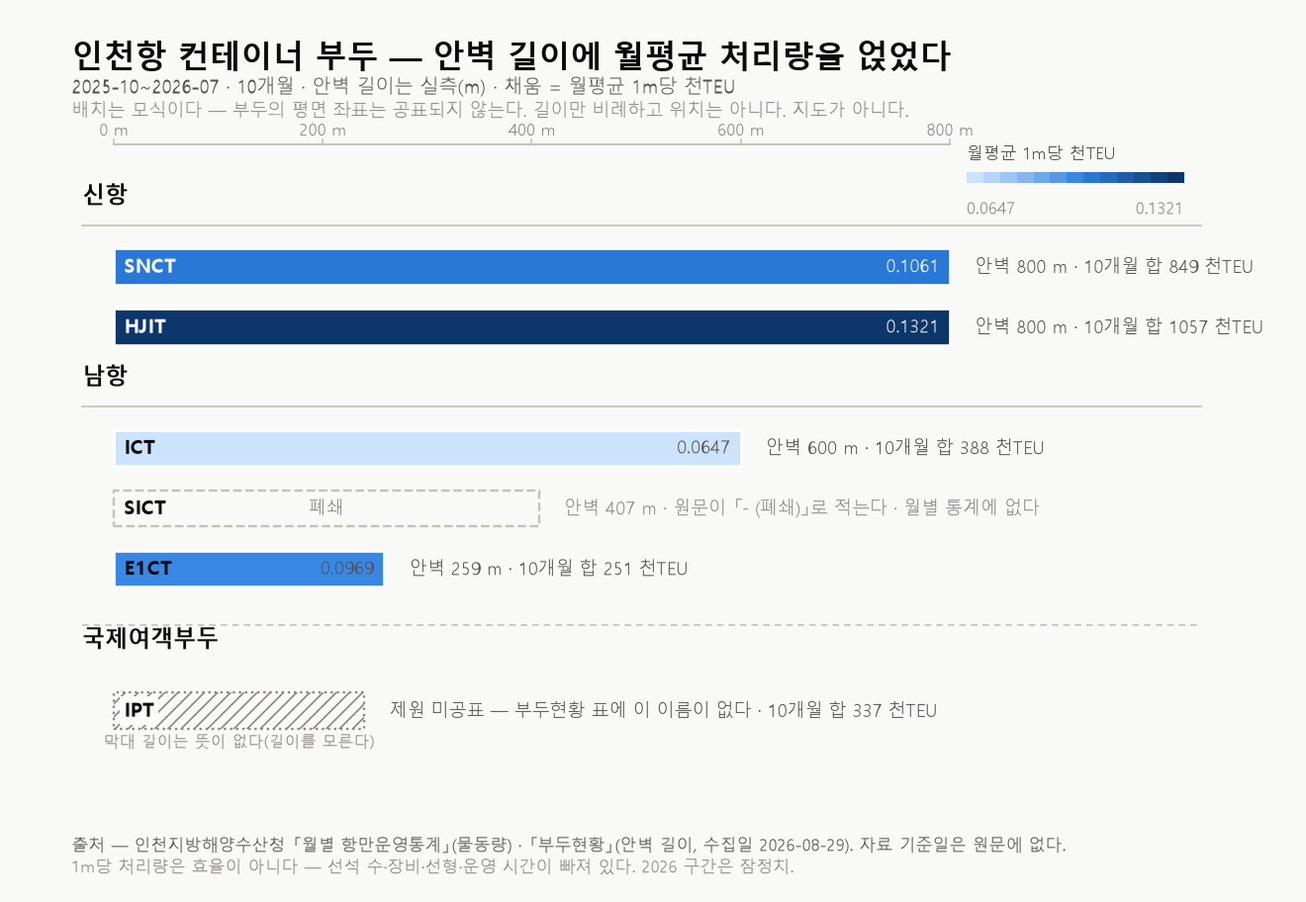
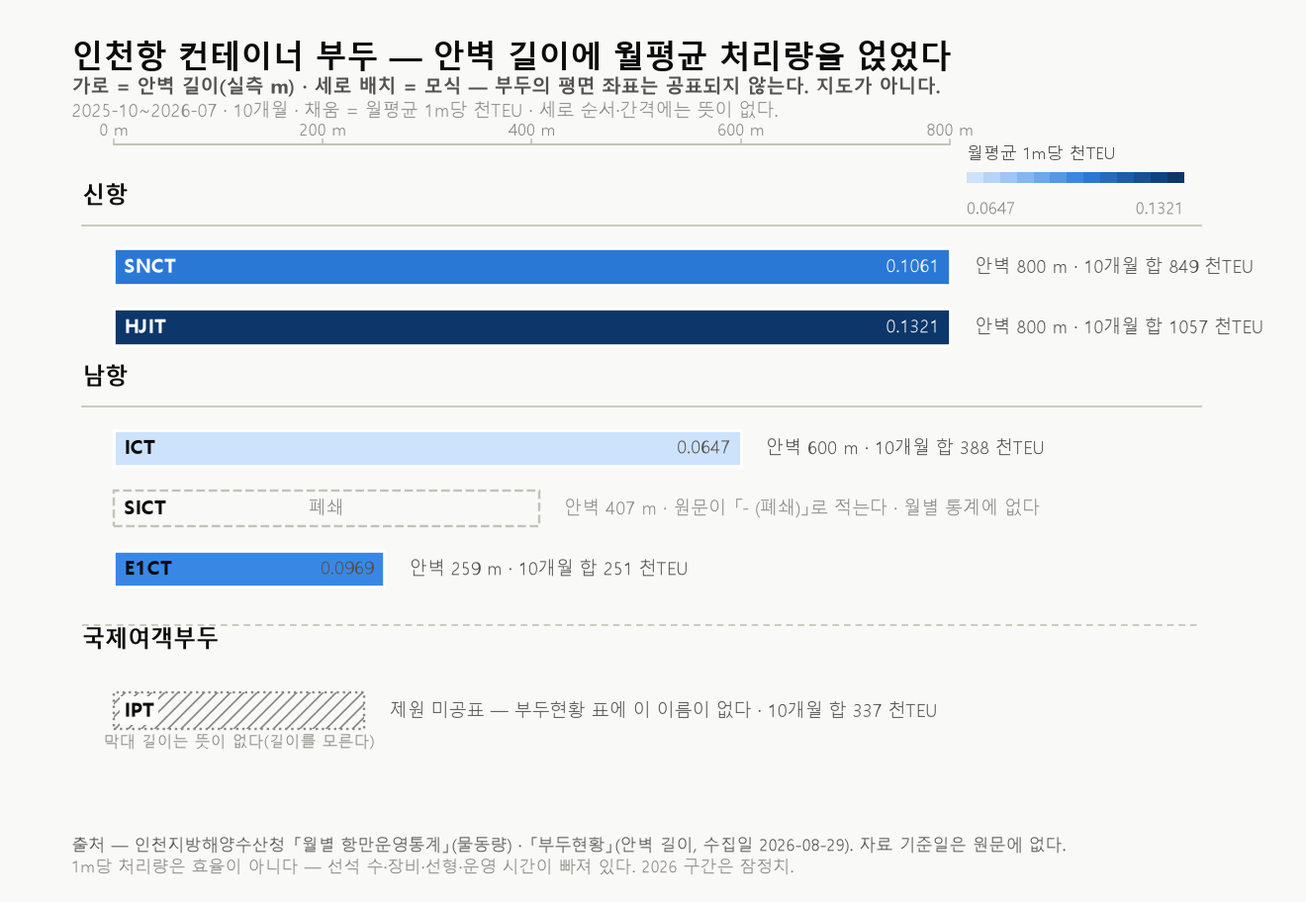
fix(#11): 창이 왜 10개월인가 · T3 의 사전 난이도 · 제목의 범위
발행 전 세 자리. **선커밋 `docs/11_주제검증.md` 는 한 글자도 안 고쳤다**
(blob `e8789fb0` 그대로) · 판정 T1·T2 PASS · T3·T4 FAIL 불변.

1. **창의 출처.** 「원천이 10개월」이라고 적으려다 확인 명령을 못 붙여 재 봤다 —
   게시판 목록은 23쪽이고 가장 이른 항만운영통계 글은 2006-09 분이다.
   `list_posts()` 가 `pageindex` 를 안 붙여 **첫 쪽 10건만** 읽는다.
   **창을 고른 것이 아니라 고르지 않은 것이 창이 됐다.**
   재현 = `probe_15_board_depth.py`(쪽수·제목만 · 첨부를 안 연다).
   판정 구간은 안 넓혔다 — 값을 본 뒤 넓히면 사후조정이다(§3-7).

2. **T3 의 사전 난이도.** 판정 코드가 `2·(1/2)^5 = 0.0625` 와 10개월 기대치
   `0.625개월` 을 계산하고 인수시험이 고정한다. 합계는 다섯의 합이라
   여섯째 동전으로 안 센다 — 다섯만 봐도 동행은 1개월이고 그것도 코드가 센다.
   기준 6개월은 기대치의 약 열 배였고 관측 1개월은 기대치와 사실상 같다.
   **가정은 데이터로 검증하지 않았다**(이 창의 부호 분포는 반반이 아니다).
   FAIL 이 말하는 폭을 좁혔지 FAIL 을 무르지 않았다.

3. **제목의 범위.** 제목은 뒀다. 잰 것이 **전년대비 부호 하나**라는 것을
   리드와 §3-1 에 붙였다. 상관은 안 쟀고 §4.2 후속으로만 적는다.

확인 둘. **모집단이 실제로 지표마다 다르다** → 판정표에 모집단 열
(T1·T2 부두군 3 / T3 합계 1+터미널 5 / T4 터미널 4).
**도해의 모식 고지가 가장 옅은 글자였다** → 축에 붙여 제목 밑 굵은 줄로 올렸다.

대장 3행 추가(0.0625 · 0.625개월 · 게시판 깊이) · `10개월` 행 비고에
「이 10개월이 전부라는 뜻이 아니다」. 린터 FAIL 0 · WARN 0.

Claude-Session: https://claude.ai/code/session_01R1FFVjPPqEkxDWzcQ8VZJk

Changed region(s): [[0.0621, 0.0614, 0.7144, 0.1535]]

diff --git a/analysis/probe/probe_15_board_depth.py b/analysis/probe/probe_15_board_depth.py
@@ -1,0 +1,134 @@
+# -*- coding: utf-8 -*-
+"""프로브 — 「월별 항만운영통계」 게시판은 **어디까지 있는가.**
+
+**질문.** #11 의 창이 10개월인 것은 **원천이 10개월이어서인가, 우리가 10개월만 읽어서인가.**
+
+**답 (2026-09-11 실측).** **후자다.** 게시판 목록은 **23쪽**이고 마지막 쪽의 가장 이른 글은
+**2006년 9월**분이다. `collect_terminal_monthly.py` 의 `list_posts()` 는 `pageindex` 를 안 붙여
+**첫 쪽 10건만** 읽는다 — 그래서 CSV 가 2025-10~2026-07 열 달이 됐다.
+
+**이것이 왜 프로브인가.** 값을 하나도 안 연다 — **쪽수와 글 제목만** 본다.
+터미널별 수치는 손대지 않으므로 #11 의 선커밋 구간(2025-10~2026-07)에 영향이 없다.
+창을 넓히려면 **편을 새로 열고 선커밋부터** 해야 한다(지침 §5).
+
+**왜 남기나.** #11 이 「왜 10개월인가」를 결론 자리에서 답하는데, 그 답이 주장이 아니라
+**확인 명령을 가진 관측**이어야 한다(지침 §8-3).
+
+    python analysis/probe/probe_15_board_depth.py            # 실측
+    python analysis/probe/probe_15_board_depth.py --selftest # 파서 인수시험(망 안 탄다)
+
+닿지 않는 곳
+------------
+· **옛 글의 첨부에 터미널 표가 있는지는 안 본다.** 첨부를 열지 않는다 — 그건 값이다.
+  **「글이 있다」와 「그 축이 있다」는 다르다**(사고 26). 창을 넓히는 편이 그것부터 확인한다.
+· **제목 규칙은 수집기의 것을 그대로 쓴다.** 다른 제목으로 올라온 같은 통계가 있으면 안 잡힌다 —
+  실제로 마지막 쪽에 「인천항 선박입항 및 물동량 처리 현황」이라는 다른 제목의 2006년 글이 있다.
+· 게시판은 살아 있다. **이 수는 측정일의 관측이다.**
+"""
+from __future__ import annotations
+import argparse
+import html as htmllib
+import re
+import sys
+import urllib.request
+
+try:
+    sys.stdout.reconfigure(encoding="utf-8", errors="replace")
+    sys.stderr.reconfigure(encoding="utf-8", errors="replace")
+except Exception:
+    pass
+
+LIST_URL = "https://incheon.mof.go.kr/ko/board.do?menuIdx=1700"
+UA = (
+    "Mozilla/5.0 (Windows NT 10.0; Win64; x64) AppleWebKit/537.36 "
+    "(KHTML, like Gecko) Chrome/140.0.0.0 Safari/537.36"
+)
+
+# 게시판 쪽 이동은 `fnPageMove(n)` 이 `#pageindex` 에 값을 넣고 폼을 낸다
+# (`/ko/office/common/resources/js/wk_common.js`). GET 으로도 같은 목록이 온다.
+END_RE = re.compile(r'fnPageMove\((\d+)\)[^>]*class="btn_end"')
+LINK_RE = re.compile(
+    r'<a[^>]+href="(board\.do\?[^"]*bbsIdx=\d+[^"]*)"[^>]*>(.*?)</a>', re.S
+)
+# **수집기와 같은 규칙을 쓴다** — 다른 규칙을 쓰면 다른 것을 세게 된다(사고 31).
+YM_RE = re.compile(r"(\d{4})년\s*(\d{1,2})월")
+
+
+def get(url: str) -> str:
+    req = urllib.request.Request(url, headers={"User-Agent": UA, "Referer": LIST_URL})
+    return urllib.request.urlopen(req, timeout=30).read().decode("utf-8", "replace")
+
+
+def last_page(page_html: str) -> int | None:
+    """목록 쪽수 — 「끝 페이지로」 단추가 드는 수."""
+    m = END_RE.search(page_html)
+    return int(m.group(1)) if m else None
+
+
+def months_on(page_html: str) -> list[str]:
+    """그 쪽의 「항만운영통계」 글에서 대상연월만. **수집기와 같은 규칙.**"""
+    out = []
+    for m in LINK_RE.finditer(page_html):
+        title = htmllib.unescape(re.sub(r"<[^>]+>", "", m.group(2))).strip()
+        ym = YM_RE.search(title)
+        if "항만운영통계" in title and ym:
+            out.append("%s-%02d" % (ym.group(1), int(ym.group(2))))
+    return out
+
+
+def probe() -> int:
+    first = get(LIST_URL)
+    pages = last_page(first)
+    head = months_on(first)
+    print("== 「월별 항만운영통계」 게시판 깊이 ==")
+    print("  목록 1쪽  · 항만운영통계 %d건 · %s ~ %s" % (len(head), head[-1], head[0]))
+    if not pages:
+        print("  **쪽수를 못 읽었다.** 목록 표시가 바뀌었다 — 단정하지 않는다.")
+        return 1
+    print("  목록 쪽수 · %d쪽" % pages)
+    tail = months_on(get(LIST_URL + "&pageindex=%d" % pages))
+    print("  목록 %d쪽 · 항만운영통계 %d건 · 가장 이른 달 %s" % (pages, len(tail), min(tail)))
+    print()
+    print("  **수집기는 첫 쪽만 읽는다** — `collect_terminal_monthly.py` `list_posts()` 가")
+    print("  `pageindex` 를 안 붙인다. `analysis/terminal_monthly.csv` 의 %d개월이 그 결과다."
+          % len(head))
+    print("  **첨부에 터미널 표가 있는지는 이 프로브가 안 본다.** 글이 있는 것과 축이 있는 것은 다르다.")
+    return 0
+
+
+def selftest() -> int:
+    ok = True
+
+    def chk(label, got, want):
+        nonlocal ok
+        good = got == want
+        ok = ok and good
+        print("  %s %-46s %s" % ("OK  " if good else "FAIL", label,
+                                 "" if good else "-> %r (기대 %r)" % (got, want)))
+
+    print("── 인수시험: 쪽수 읽기 ──")
+    end = ('<a href="#" title="끝 페이지로" onclick="fnPageMove(23);return false;" '
+           'class="btn_end"><em class="IR">끝 페이지로</em></a>')
+    chk("끝 페이지 수를 읽는다", last_page(end), 23)
+    chk("없으면 None — 단정하지 않는다", last_page("<div></div>"), None)
+
+    print("── 인수시험: 제목 규칙 ──")
+    frag = (
+        '<a href="board.do?menuIdx=1700&bbsIdx=1">2026년 7월 인천항 항만운영통계</a>'
+        '<a href="board.do?menuIdx=1700&bbsIdx=2">2006년 9월 항만운영통계</a>'
+        '<a href="board.do?menuIdx=1700&bbsIdx=3">인천항 선박입항 및 물동량 처리 현황 (2006년 8월)</a>'
+        '<a href="board.do?menuIdx=1700&bbsIdx=4">항만운영통계 안내</a>'
+    )
+    got = months_on(frag)
+    chk("항만운영통계 + 연월만 잡는다", got, ["2026-07", "2006-09"])
+    chk("다른 제목은 안 잡는다 — 한계를 그대로 둔다", "2006-08" in got, False)
+
+    print("\n통과" if ok else "\n실패")
+    return 0 if ok else 1
+
+
+if __name__ == "__main__":
+    ap = argparse.ArgumentParser(description="게시판 깊이 프로브 — 값은 안 연다")
+    ap.add_argument("--selftest", action="store_true")
+    a = ap.parse_args()
+    sys.exit(selftest() if a.selftest else probe())

diff --git a/analysis/judge_11_terminal.py b/analysis/judge_11_terminal.py
@@ -179,7 +179,7 @@ def judge():
                  "미성립": t2_bad, "판정": "PASS" if not t2_bad else "FAIL"}
 
     # T3 — 합계 부호와 터미널 다섯 부호가 모두 같은 달이 6개월 이상
-    signs, agree = {}, []
+    signs, agree, agree5 = {}, [], []
     for m in months:
         row = {"합계": sign(yoy_total.get(m))}
         for t in sorted(term[m]):
@@ -188,8 +188,19 @@ def judge():
         vals = list(row.values())
         if None not in vals and len(set(vals)) == 1:
             agree.append(m)
+        five = [v for k, v in row.items() if k != "합계"]
+        if None not in five and len(set(five)) == 1:
+            agree5.append(m)
+    # **기준의 사전 난이도** — 판정에 안 쓴다. T2 의 「선언값」과 같은 자리의 자기비판이다.
+    # 부호가 서로 무관하고 +/− 가 반반이라면 **터미널 다섯이 모두 같을 확률**은 2·(1/2)^5.
+    # **합계는 동전으로 안 센다** — 다섯의 합이라 독립이 아니다. 여섯 조건 ≈ 다섯 조건이고,
+    # 이 창에서는 `동행`(여섯)과 `다섯만 동행`이 실제로 같은 수다.
+    n_terms = max(len(signs[m]) - 1 for m in months) if months else 0
+    p_null = 2 * (0.5 ** n_terms) if n_terms else 0.0
     out["T3"] = {"동행": len(agree), "검사": len(months), "기준": T3_MIN_MONTHS,
                  "동행한 달": agree,
+                 "다섯만 동행": len(agree5),
+                 "귀무확률": p_null, "귀무기대": p_null * len(months),
                  "판정": "PASS" if len(agree) >= T3_MIN_MONTHS else "FAIL"}
     out["signs"] = signs
 
@@ -260,6 +271,15 @@ def report():
         else:
             extra = v.get("사유", "")
         print("  %-4s %-10s %s" % (k, v["판정"], extra))
+    v3 = r["T3"]
+    print()
+    print("── T3 의 사전 난이도 (판정에 안 쓴다) ──")
+    print("  부호가 무관하고 반반이면 다섯이 모두 같을 확률 %.4f (= 2·(1/2)^5)" % v3["귀무확률"])
+    print("  %d개월 기대치 %.2f개월 · 관측 %d개월 · 기준은 %d개월 이상이었다"
+          % (v3["검사"], v3["귀무기대"], v3["동행"], v3["기준"]))
+    print("  다섯만 동행 %d개월 — 합계를 빼도 같은 수다(합계는 다섯의 합이라 동전이 아니다)"
+          % v3["다섯만 동행"])
+    print("  **가정은 이 데이터로 검증하지 않았다.** 기준이 얼마나 빡빡했는지의 자[尺]일 뿐이다")
     n_fail = sum(1 for k in ("T1", "T2", "T3", "T4") if r[k]["판정"] == "FAIL")
     print()
     print("PASS %d · FAIL %d · 판정 불가 %d"
@@ -308,6 +328,14 @@ def selftest():
     chk("T1 검사 분모가 0 이 아니다", r["T1"]["검사"] > 0, True)
     chk("T2 하한이 선언값 50.0", SHARE_FLOOR, 50.0)
     chk("T3 기준이 6개월", r["T3"]["기준"], 6)
+
+    print("── 인수시험: T3 사전 난이도는 판정을 안 바꾼다 ──")
+    chk("귀무확률 = 2·(1/2)^5", round(r["T3"]["귀무확률"], 6), 0.0625)
+    chk("10개월 기대치", round(r["T3"]["귀무기대"], 4), 0.625)
+    chk("기준은 기대치보다 크다 — 빡빡했다", r["T3"]["기준"] > r["T3"]["귀무기대"], True)
+    chk("합계를 빼도 같은 수다", r["T3"]["다섯만 동행"], r["T3"]["동행"])
+    chk("판정은 관측과 기준만으로 난다",
+        r["T3"]["판정"], "PASS" if r["T3"]["동행"] >= r["T3"]["기준"] else "FAIL")
     chk("판정 넷이 다 났다",
         sorted(k for k in ("T1", "T2", "T3", "T4") if "판정" in r[k]), ["T1", "T2", "T3", "T4"])
 

diff --git a/analysis/chart_11_terminal_plan.py b/analysis/chart_11_terminal_plan.py
@@ -104,11 +104,13 @@ def build(path=OUT):
     fig = plt.figure(figsize=(11, 7.6), dpi=120, facecolor=PLANE)
     fig.text(0.055, 0.955, "인천항 컨테이너 부두 — 안벽 길이에 월평균 처리량을 얹었다",
              fontsize=19, fontweight="bold", color=INK, va="top")
+    # **실측과 모식을 축에 붙인다.** 캡션에만 적으면 눈이 먼저 지도로 읽는다
+    # (2026-09-11 운영자 지적). 그래서 이 줄은 **가장 옅은 글자가 아니어야 한다.**
     fig.text(0.055, 0.915,
-             "2025-10~2026-07 · 10개월 · 안벽 길이는 실측(m) · 채움 = 월평균 1m당 천TEU",
-             fontsize=11.5, color=INK2, va="top")
+             "가로 = 안벽 길이(실측 m) · 세로 배치 = 모식 — 부두의 평면 좌표는 공표되지 않는다. 지도가 아니다.",
+             fontsize=11.5, fontweight="bold", color=INK2, va="top")
     fig.text(0.055, 0.888,
-             "**배치는 모식이다** — 부두의 평면 좌표는 공표되지 않는다. 길이만 비례하고 위치는 아니다. 지도가 아니다.".replace("**", ""),
+             "2025-10~2026-07 · 10개월 · 채움 = 월평균 1m당 천TEU · 세로 순서·간격에는 뜻이 없다.",
              fontsize=11, color=MUTED, va="top")
 
     ax = fig.add_axes([0.055, 0.135, 0.89, 0.72], facecolor=SURFACE)

diff --git a/docs/FACTS.md b/docs/FACTS.md
@@ -60,7 +60,7 @@
 | 2.064배 | **2026-07 단월** · 인천항 수입÷수출 · USD | 관측 | #08 | 잠정치 |
 | 3,830,215,205 USD | 2026-07 단월 · 인천항 수출 신고액 | 관측 | #08 원시 `porttrade_202412_202607.csv` | 잠정치 |
 | 7,906,486,316 USD | 2026-07 단월 · 인천항 수입 신고액 | 관측 | #08 원시 동일 | 잠정치 |
-| 10개월 | 2025-10 ~ 2026-07 대상월 · 인천지방해양수산청 「월별 항만운영통계」가 **익월 23~30일**에 게시된 연속 개월 수 | 관측 | 게시판 게시일 실측 2026-08-28 (`incheon.mof.go.kr` `menuIdx=1700`) | **데이터 값이 아니라 소스의 공표 리듬**이다. 기관 선언이 아니라 우리가 잰 값 |
+| 10개월 | 2025-10 ~ 2026-07 대상월 · 인천지방해양수산청 「월별 항만운영통계」가 **익월 23~30일**에 게시된 연속 개월 수 | 관측 | 게시판 게시일 실측 2026-08-28 (`incheon.mof.go.kr` `menuIdx=1700`) | **데이터 값이 아니라 소스의 공표 리듬**이다. 기관 선언이 아니라 우리가 잰 값. **이 10개월이 게시판의 전부라는 뜻이 아니다** — 아래 「게시판 깊이」 행이 그것을 든다. 같은 수가 두 뜻으로 읽히는 자리다(사고 22) |
 | 2023-04 | 인천항 **연안(`ocCt=2`) 공컨테이너**가 마지막으로 0이 아니었던 달 · TEU·박스 수 기준 | 관측 | `analysis/probe/probe_10_coastal_zero.py` — 방향별 CSV 2022~2026 읽기 전용 훑기 | **2024-01 이후 전 구간 0.** 값이 있던 구간은 전부 국적선·10ft였다. **이 관측은 데이터를 본 뒤에 나왔으므로 선커밋 기준이 될 수 없다**(§3-7) |
 | 282 천TEU | 2026-07 단월 · 인천항 **컨테이너 공표 합계** | 관측 | 인천지방해양수산청 「월별 항만운영통계」 2026-07 표 — `analysis/terminal_monthly.csv` 계층=합계 | **공표자료가 낸 합계다.** 터미널 다섯 곳을 우리가 더하면 283이 나온다 — 어긋남은 반올림이고, 그 자리는 신항이다(78+107=185, 공표 소계 184) |
 | 184 천TEU | 2026-07 단월 · **신항 소계**(SNCT·HJIT) | 관측 | 위와 동일 · 계층=부두군 | 공표자료가 「신항 소 계」 행으로 직접 낸다 |
@@ -170,6 +170,8 @@
 | 순위 2종 | **2025-10~2026-07 · 10개월** · 안벽 1m당 처리량 순위의 종류(대응 4곳) | 검증 | `judge_11_terminal.py` T4 (#11) | 9개월이 `HJIT>SNCT>E1CT>ICT`, 1개월(2025-12)이 `HJIT>E1CT>SNCT>ICT`. 기준은 「10개월 내내 같다」였고 FAIL 이다 |
 | 50.0% | 신항 몫의 **선커밋 하한** — #11 T2 · 분모 = 공표 합계 | 관측 | 근거 = 2026-07 의 65.2%(대장) 에서 내려 잡은 **선언값**. `docs/11_주제검증.md` §3 | **기준값이지 관측값이 아니다.** 관측이 한 달뿐이라 관측 최소를 못 썼다 — 그 약점을 선커밋이 그 자리에 적었다. 이 창의 관측 최소는 63.4% |
 | 9개월 | **2025-10~2026-07 · 10개월** 중 공표 합계의 전년대비 부호가 **터미널 다섯 전부의 부호와 같지 않은** 달 | 검증 | `analysis/judge_11_terminal.py` T3 (#11) | 「1개월」 행의 여집합이다. 같은 창·같은 판정에서 나온다 |
+| 0.0625 | 터미널 **다섯의 전년대비 부호가 모두 같을 확률** — **부호가 서로 무관하고 +/− 가 반반이라는 가정** 위의 값 · #11 T3 | 관측 | `analysis/judge_11_terminal.py` — `2·(1/2)^5` 를 계산하고 인수시험이 그 값을 고정한다 | **관측된 값이 아니라 가정 위의 계산값이다.** 가정 자체는 이 데이터로 검증하지 않았다 — 이 창의 부호 분포는 반반이 아니다(E1CT 10개월 전부 +, SNCT 9개월 −). **T2 의 「선언값」과 같은 자리의 자기비판**이고, 판정에는 안 쓴다 |
+| 0.625개월 | 위 확률의 **10개월 기대치** — #11 T3 의 선커밋 기준(6개월 이상)이 요구한 값과 맞대는 자 | 관측 | 동일 — `0.0625 × 10` | **관측은 1개월이고 이 기대치와 사실상 같다.** 기준 6개월은 기대치의 약 열 배였다 — **사전에도 통과 가능성이 낮은 값**이었다. 기준은 고치지 않는다(§3-7) |
 | 8종 · 끊김 2 | **2005-01~2021-12** · `(GInOut, ocCt)` 조합 수와 **중간 결손이 있는 조합 수** | 검증 | 동일 — 재계산 (#10 W4) | 끊긴 둘은 **(3,2)·(4,2) = 환적×연안**. **W1~W3 은 연안을 빼므로 안 섞인다** |
 | 85.0% | 공컨 **수출 방향 비중의 선커밋 하한** — #09 V3 | 관측 | 근거 = 2022~2025 관측 최소 85.1%(2025). `docs/09_주제검증.md` §3 | **기준값이지 관측값이 아니다.** 대장의 `85.0배`(2022-08 월 최대)와 숫자만 같고 단위가 다르다 |
 
@@ -189,6 +191,7 @@
 |---|---|---|---|---|
 | 신항 · 남항 · 국제여객부두 | 인천항 컨테이너 **부두군 구분** | 관측 | 원문 실측 `analysis/probe/probe_11_berth_group.py` (2026-07 첨부 SHA-256 대조 후 열람) | **우리가 만든 분류가 아니다.** 공표자료 표가 「신항 소 계」·「남항 소 계」 행을 직접 든다. 확인 전에는 코드에만 있고 출처가 안 적혀 있었다 |
 | SICT | 남항 컨테이너 부두 중 원문이 **「폐쇄」**로 적은 부두 · 안벽 407 m · 수심 11.0 m | 관측 | 인천지방해양수산청 남항 부두현황(menuIdx=1773) · 수집일 2026-08-29 | 운영 중 안벽 합계에서 뺐다. **폐쇄 사유는 이 소스에 없고 쓰지 않는다** |
+| 게시판 깊이 | 「월별 항만운영통계」 게시판 목록은 **23쪽**이고 가장 이른 항만운영통계 글은 **2006년 9월**분이다 · 측정 2026-09-11 | 관측 | `analysis/probe/probe_15_board_depth.py` (쪽수와 글 제목만 본다 — 첨부를 안 연다) | **#11 의 창이 10개월인 것은 원천이 10개월이어서가 아니다.** `collect_terminal_monthly.py` 의 `list_posts()` 가 `pageindex` 를 안 붙여 **목록 첫 쪽 10건만** 읽는다. **옛 글의 첨부에 터미널 표가 있는지는 [미확인]** — 글이 있는 것과 축이 있는 것은 다르다(사고 26). 창을 넓히려면 편을 새로 열고 선커밋부터 한다 |
 
 ## 등재 규칙
 

diff --git a/docs/11_판정결과.md b/docs/11_판정결과.md
@@ -19,14 +19,18 @@
 
 ## 1. 판정표
 
-| 기준 | 내용 | 창 | 결과 | 판정 |
-|---|---|---|---|---|
-| **T1** 몫 순위 지속 | 신항 > 남항 > 국제여객부두 | 10개월 | **10/10 성립** | **PASS** |
-| **T2** 신항 몫 하한 | 매달 ≥ 50.0% | 10개월 | **10/10 성립** (63.4~68.8%) | **PASS** |
-| **T3** 증감 동행 | 여섯 부호가 모두 같은 달 ≥ 6개월 | 10개월 | **1개월**(2025-11) | **FAIL** |
-| **T4** 안벽 생산성 순위 지속 | 대응 터미널의 순위가 10개월 내내 같다 | 10개월 · 4곳 | **순위 2종**(9개월 + 1개월) | **FAIL** |
+| 기준 | 내용 | 모집단 | 창 | 결과 | 판정 |
+|---|---|---|---|---|---|
+| **T1** 몫 순위 지속 | 신항 > 남항 > 국제여객부두 | 부두군 **3** | 10개월 | **10/10 성립** | **PASS** |
+| **T2** 신항 몫 하한 | 매달 ≥ 50.0% | 부두군 **1**(분모 = 공표 합계) | 10개월 | **10/10 성립** (63.4~68.8%) | **PASS** |
+| **T3** 증감 동행 | 여섯 부호가 모두 같은 달 ≥ 6개월 | 공표 합계 **1** + 터미널 **5** | 10개월 | **1개월**(2025-11) | **FAIL** |
+| **T4** 안벽 생산성 순위 지속 | 대응 터미널의 순위가 10개월 내내 같다 | 터미널 **4**(이름 대응분) | 10개월 | **순위 2종**(9개월 + 1개월) | **FAIL** |
 
 **PASS 2 · FAIL 2 · 판정 불가 0.**
+
+**모집단이 기준마다 다르다 — 선커밋이 그렇게 정했다.** T4 만 넷인 것은 부두현황 표에 IPT 의
+제원이 없어서이고, 선커밋 게이트 3·4 가 「대응 안 되는 이름은 판정 불가로 따로 센다」를 미리 적었다.
+**다섯 곳 전부가 들어가는 기준은 T3 하나다.** 「다섯」을 전 지표의 모집단으로 읽지 않는다.
 
 ---
 
@@ -108,6 +112,25 @@
 
 **인과를 쓰지 않는다.** 왜 그런지는 이 데이터가 답하지 않는다.
 
+### 4-1. 이 기준의 사전 난이도 — **판정에 안 쓴다**
+
+**T2 에 「느슨한 기준의 PASS」를 적었으면 T3 에도 같은 잣대를 댄다.**
+
+터미널 다섯의 부호가 서로 무관하고 양·음이 반반이라면, 다섯이 한 방향으로 모일 확률은
+`2 × (1/2)^5 = 0.0625` 이고 **10개월 기대치는 0.625개월**이다.
+**기준이 요구한 6개월 이상은 그 기대치의 약 열 배**이고, **관측 1개월은 기대치와 사실상 같다.**
+→ **T3 은 사전에도 통과 가능성이 낮은 기준이었다.**
+
+- **합계는 여섯째 동전이 아니다.** 다섯의 합이므로 독립이 아니고, 그래서 다섯으로 센다.
+  실제로 **합계를 빼고 다섯만 봐도 동행은 1개월**이다(판정 코드 `다섯만 동행`).
+- **가정은 이 데이터로 검증하지 않았다.** 이 창의 부호 분포는 반반이 아니다 —
+  E1CT 10/10 양 · SNCT 9/10 음. **그러므로 이 값은 데이터의 서술이 아니라 기준의 자[尺]다.**
+- **기준은 고치지 않는다**(§3-7). 사전 난이도를 알았다고 사후에 선을 옮기면 그것이 이탈이다.
+  **이 절은 FAIL 을 무르는 것이 아니라 FAIL 이 말하는 폭을 좁힌다** —
+  말할 수 있는 것은 「기대를 크게 웃도는 동행을 요구했고 그 수준이 아니었다」까지다.
+
+계산과 값 고정 = `analysis/judge_11_terminal.py` 와 그 인수시험 · 대장 등재 = `docs/FACTS.md`.
+
 ---
 
 ## 5. T4 — 안벽 1m당 천TEU · **FAIL**
@@ -154,8 +177,27 @@ E1CT 는 안벽이 259 m 로 가장 짧고, 짧은 분모는 같은 물동량에
   **이 편이 처음엔 이것을 「두 표의 어긋남」으로 적었다** — §2 의 정정 그대로, 대장에 이미 있던 사실이다.
 - **IPT 는 제원이 없다.** 물동량은 있고 부두현황에 없다.
 - **10개월이다.** 계절성을 가를 수 없고, 이 편은 그것을 시도하지 않는다.
+- **그 10개월이 원천의 전부가 아니다** [판정 뒤 확인 · §8]. 게시판 목록은 **23쪽**이고 가장 이른
+  항만운영통계 글은 **2006년 9월**분이다. **우리 수집기가 목록 첫 쪽만 읽어 창이 열 달이 됐다.**
+  **판정 구간은 선커밋 그대로 둔다** — 값을 본 뒤 창을 넓히면 그것이 사후조정이다(§3-7).
+  **옛 첨부에 터미널 표가 있는지는 [미확인]** — 글이 있는 것과 축이 있는 것은 다르다.
+- **다섯 터미널 사이의 상관은 재지 않았다.** 이 편이 잰 것은 부호의 동행 하나다.
 - **2026 구간은 잠정치다**(§4). 이 편의 값 대부분이 그 구간에 있다.
 
-## 8. 노출 이력
+## 8. 노출 이력 · 판정 뒤 추가
 
-없다. 선커밋 이후 기준을 한 글자도 안 고쳤다.
+**기준 변경은 없다. 선커밋 이후 기준을 한 글자도 안 고쳤다.** `docs/11_주제검증.md` 의 blob 은
+`e8789fb0311ef6b804f23459c3373a0217805373` 그대로다(확인 = `git hash-object docs/11_주제검증.md`).
+
+**판정 뒤에 더한 것 둘 — 둘 다 판정값을 안 바꾼다.**
+
+| | 무엇 | 판정에 미친 영향 |
+|---|---|---|
+| ① | **T3 의 사전 난이도**(§4-1). 무상관·등확률 가정의 귀무기대 0.625개월 | **없다.** 판정은 관측 1개월과 기준 6개월로만 난다 — 인수시험이 그것을 고정한다 |
+| ② | **창의 출처**(§7). 게시판 목록 23쪽 · 가장 이른 글 2006-09 · 수집기가 첫 쪽만 읽는다 | **없다.** 판정 구간은 선커밋 그대로 2025-10~2026-07 열 달이다 |
+
+**②는 이 편의 두 번째 흠이다.** §2 의 정정(대장을 안 읽고 선커밋을 썼다)과 같은 얼굴이다 —
+**선커밋을 쓸 때 「무엇을 이미 봤는가」는 적었으나 「무엇이 더 있는가」는 안 봤다.**
+그래서 「10개월」이 원천의 성질처럼 읽히는 문서가 나왔다. 창을 고른 것이 아니라 **고르지 않은 것이
+창이 됐다.** 처분은 `.claude/skills/발행/SKILL.md` §1·§2 에 박았고, 확인 명령은
+`python analysis/probe/probe_15_board_depth.py` 다.
